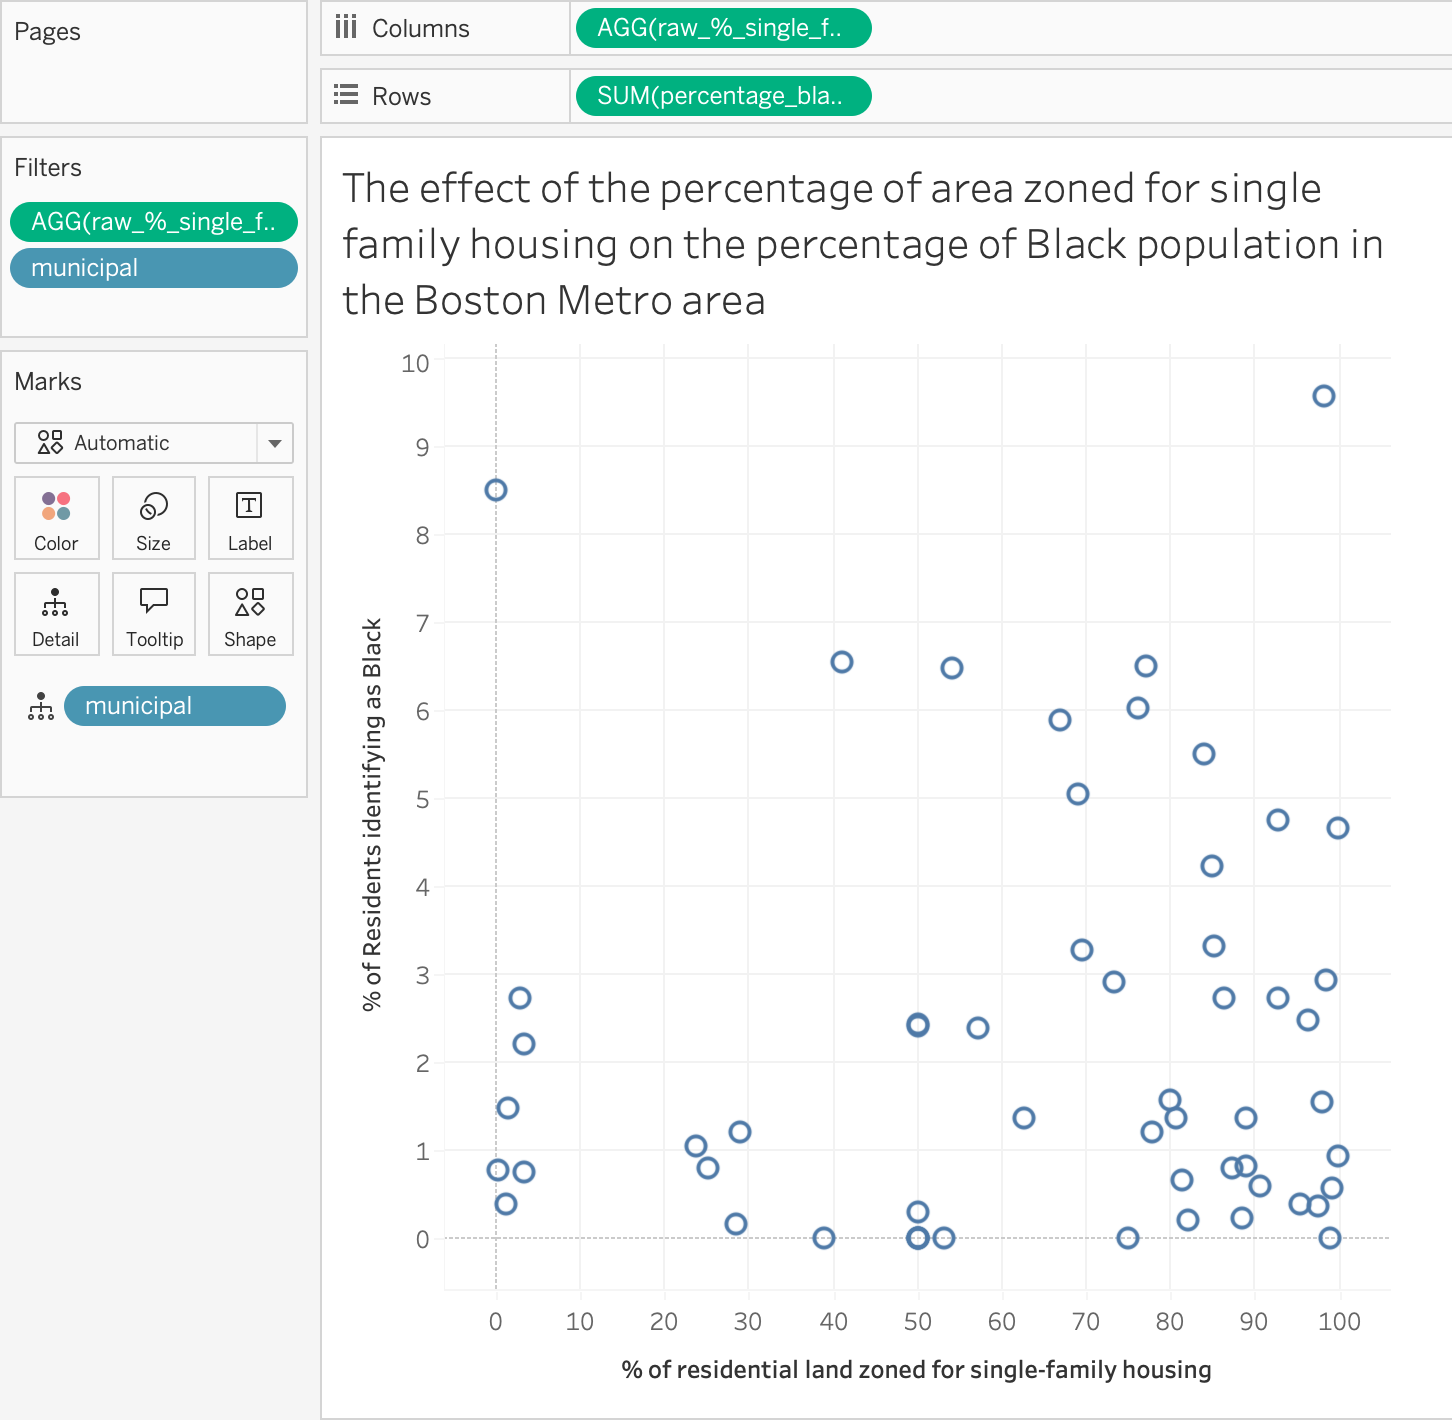
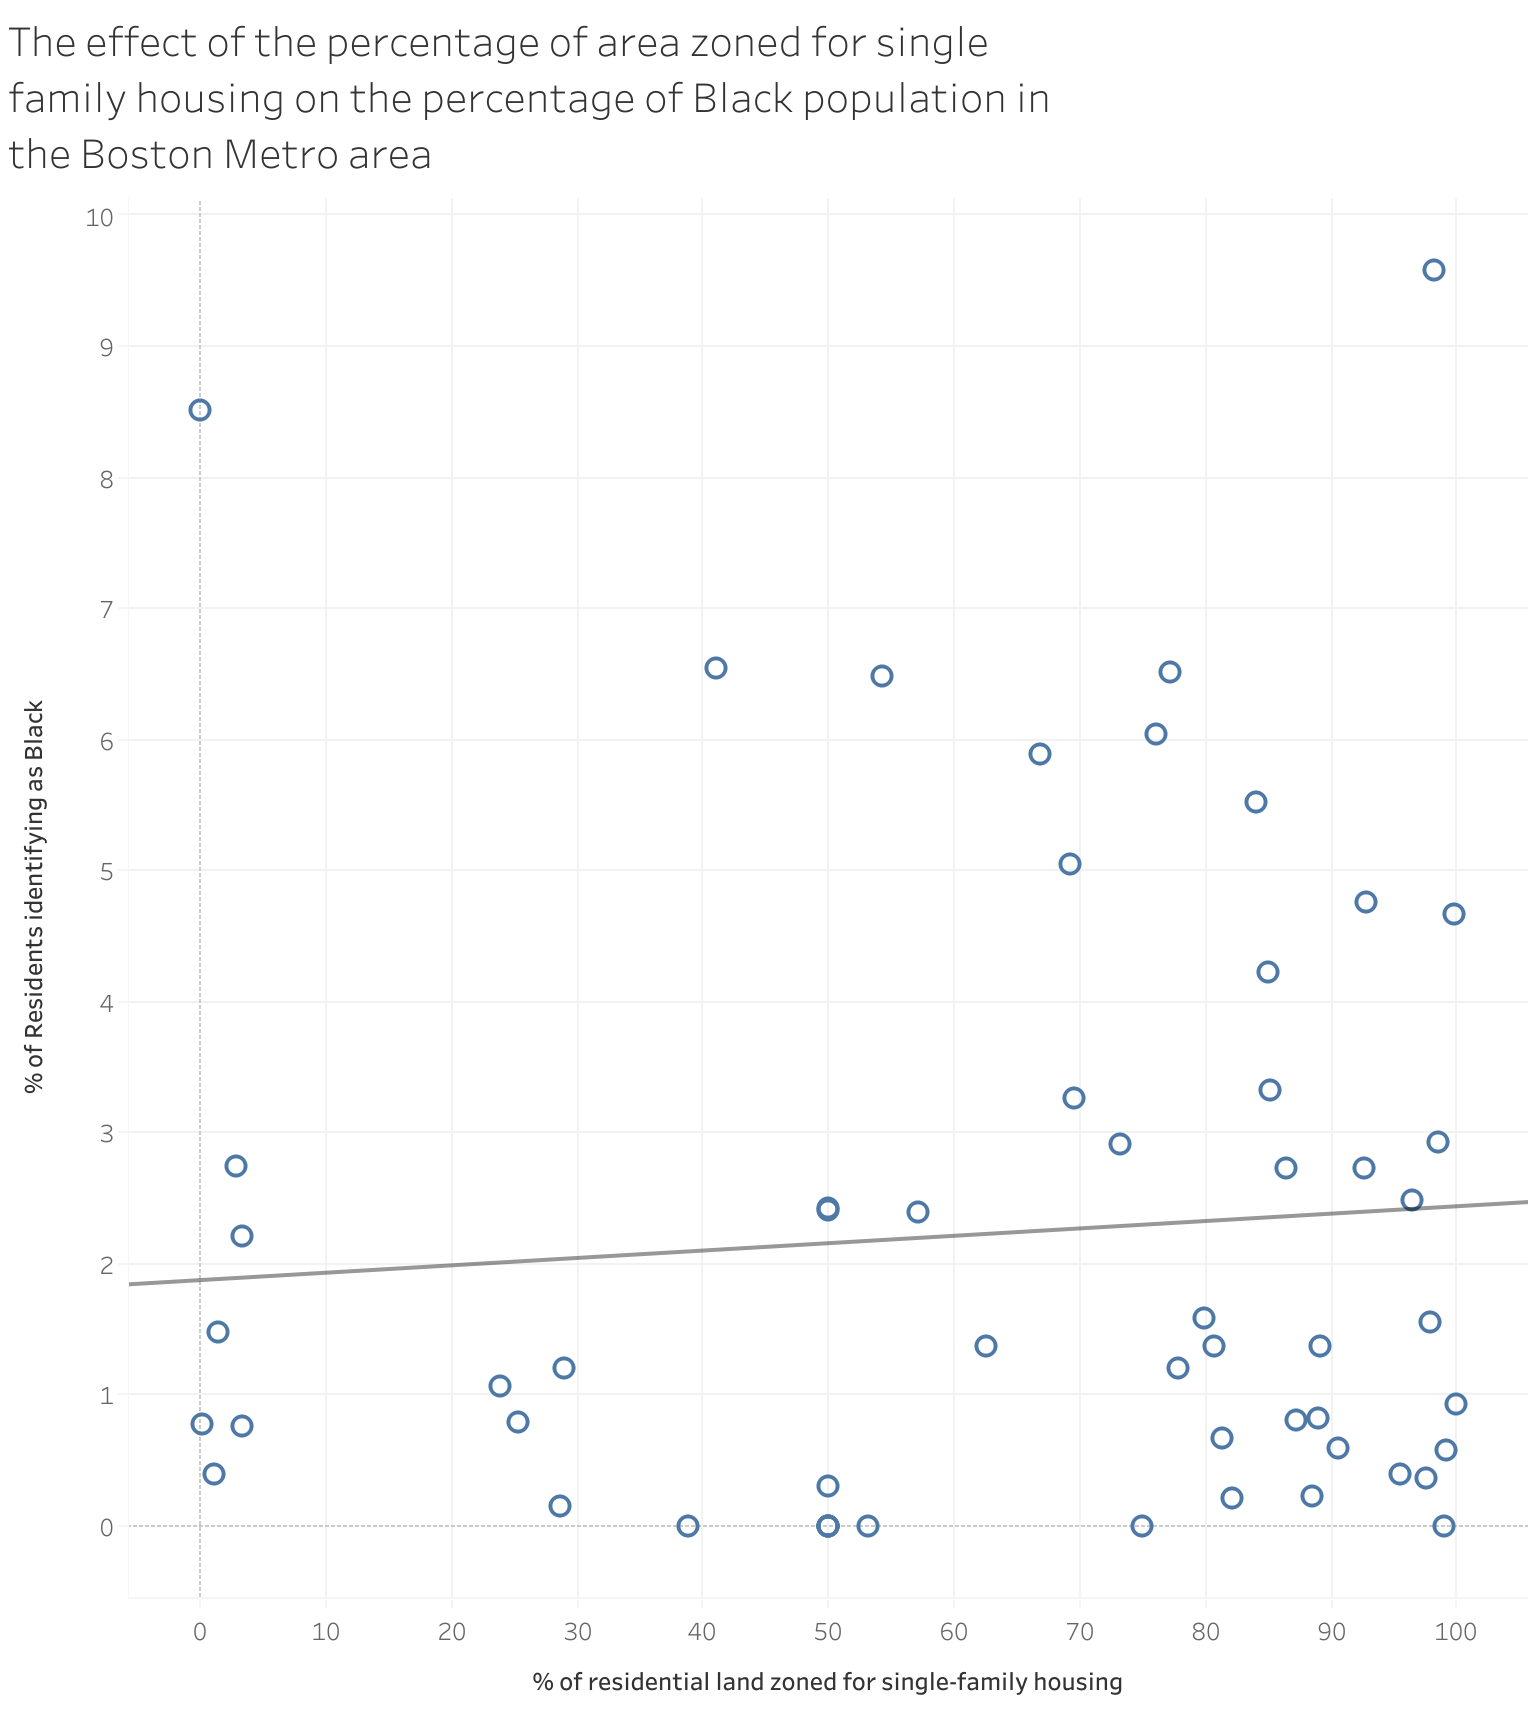
better pictures

diff --git a/index.html b/index.html
@@ -35,9 +35,6 @@
 					<li>In a similar vein to my rationale for the previous question, I wondered if the racial motivations for increasing 
 						the amount of reserved land for single-family homes in the 60s extended to present day and whether those motivations
 						 remained confined to Black residents or extended to all minorities.</li>
-					<li>and vice versa?</li>
-					<li>How does the percentage of Black residents affect the percentage of single family homes constructed?</li>
-					<li>How does the percentage of Black and Hispanic residents affect the percentage of single family homes constructed?</li>
 				</ul>
 				<li>How does the percentage of non-single-family homes available in a municipality lend itself to housing lower-income residents?</li>
 			</ol>
@@ -47,7 +44,7 @@
 			<h2>Discoveries & Insights</h2>
 
 			<figure>
-				<img src="distance_default.png" alt="" />
+				<img src="distance_default.png" alt=""/>
 				<figcaption>
 				ENTER IMAGE CAPTION HERE.
 				</figcaption>
@@ -83,7 +80,10 @@
 			<figure>
 				<img src="black_inverted.png" alt="" />
 				<figcaption>
-					Once I made the original graph and didn't immediately see any trends, I started wondering about the direction of the relationship I was asking about. Did the percentage of land being zoned to single family homes affect the number of Black people at the
+					Once I made the original graph and didn't immediately see any trends, I started wondering about the direction
+					of the relationship I was asking about. Did the percentage of land being zoned to single family homes affect
+					the number of Black people living in the municipality or vice versa? The reversed axes form the relation
+					suggested by the zoning policies in the 60s, but perhaps that relation also exists in present day.
 				</figcaption>
 			</figure>
 
@@ -109,14 +109,7 @@
 			</figure>
 
 			<figure>
-				<img src="IMAGE_FILENAME" alt="" />
-				<figcaption>
-				ENTER IMAGE CAPTION HERE.
-				</figcaption>
-			</figure>
-
-			<figure>
-				<img src="IMAGE_FILENAME" alt="" />
+				<img src="income.png" alt="" />
 				<figcaption>
 				ENTER IMAGE CAPTION HERE.
 				</figcaption>
